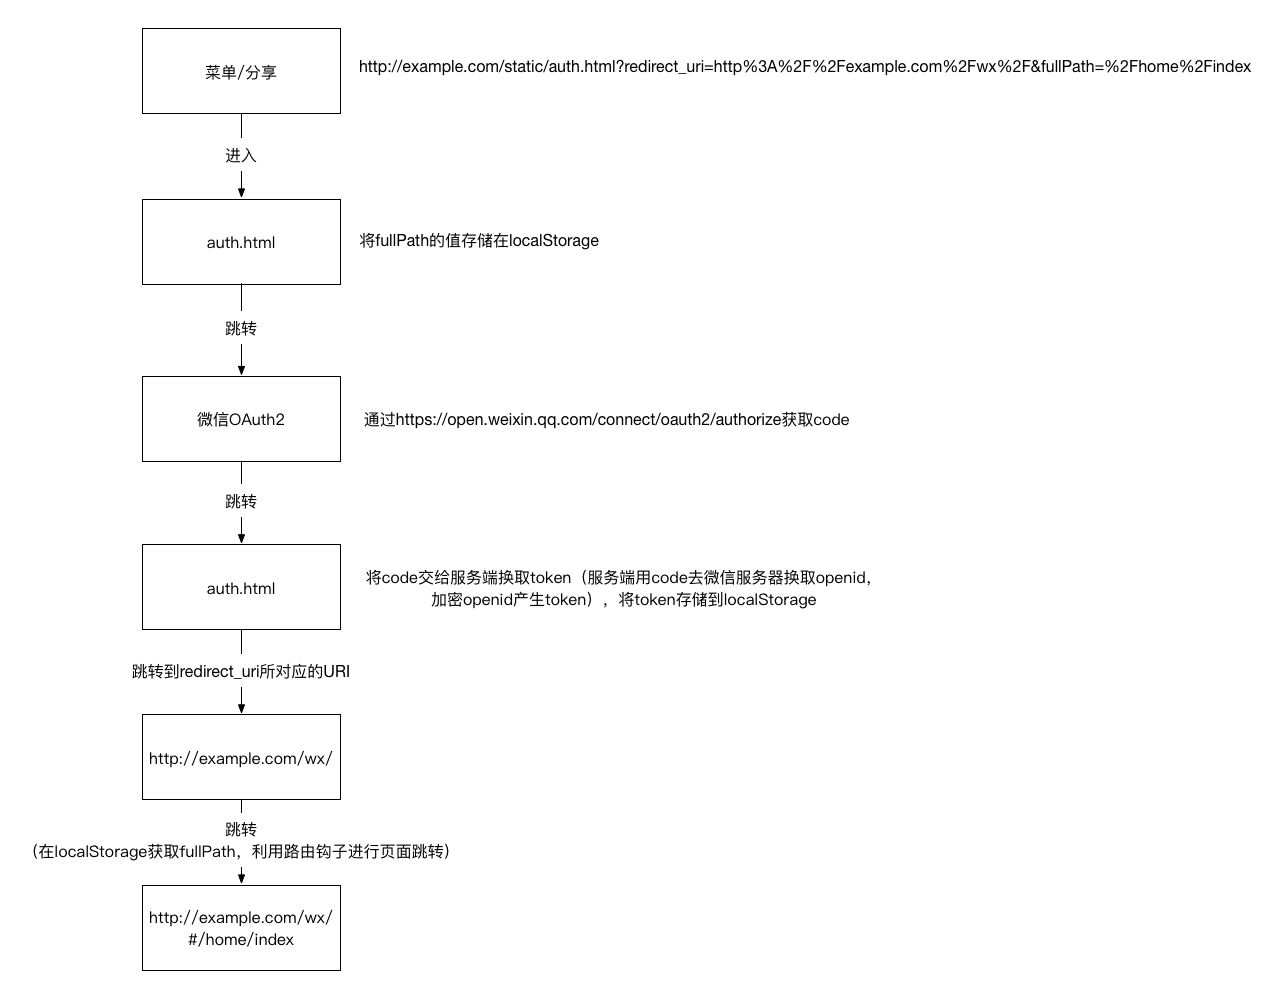
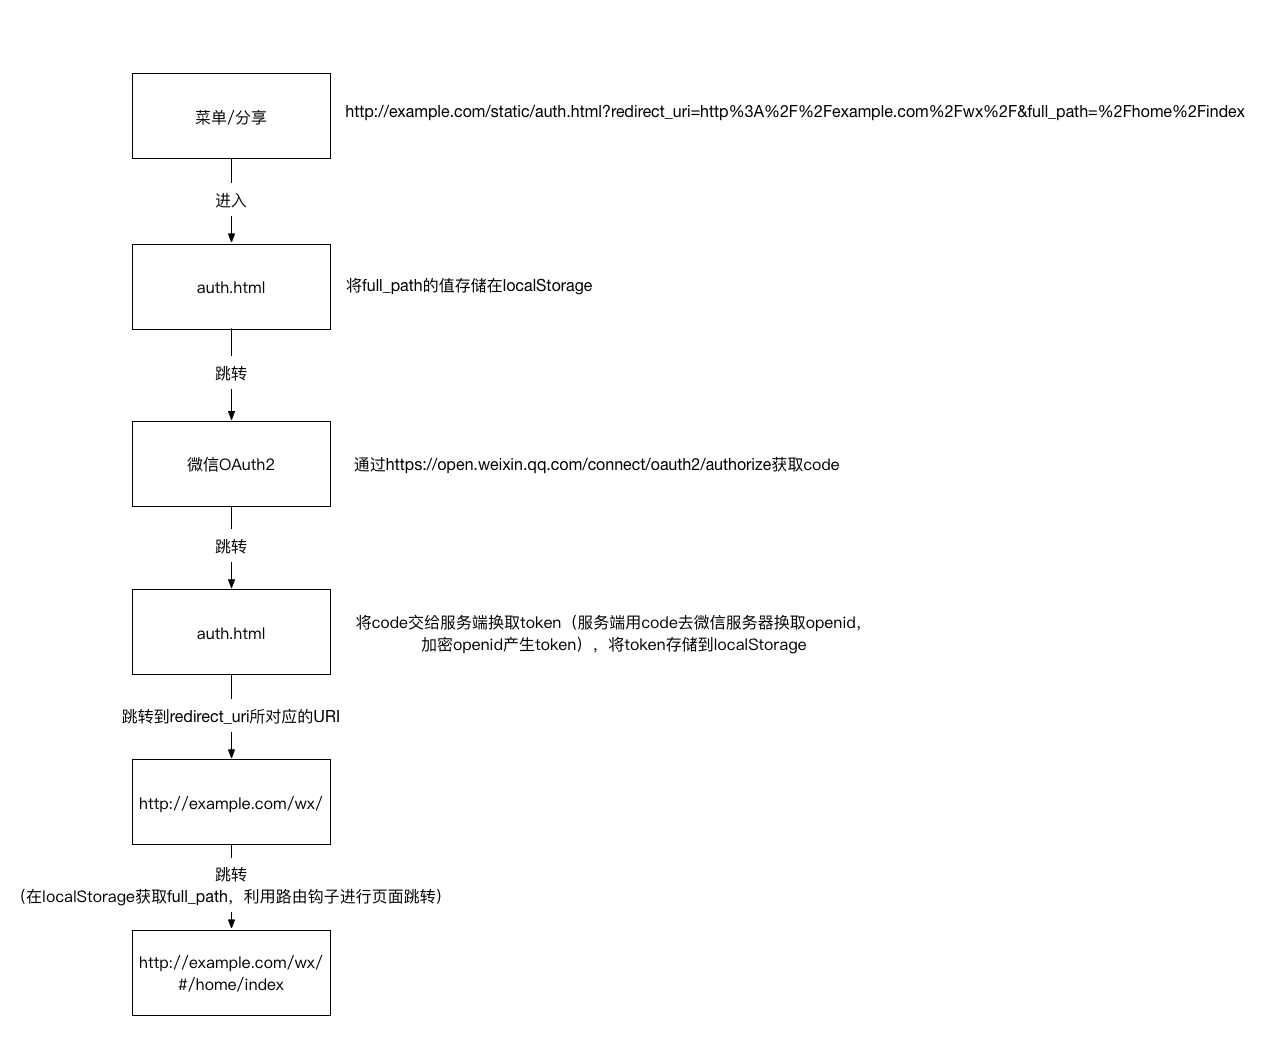
修正代码大小写错误，添加禁忌，用location.replace代替location.href

diff --git a/examples/auth/auth.html b/examples/auth/auth.html
@@ -3,8 +3,8 @@
 <head>
   <title>微信授权登录</title>
   <meta charset="utf-8">
-  <meta http-equiv="expires" content="-1">
   <meta http-equiv="cache-control" content="no-cache">
+  <meta http-equiv="expires" content="0">
   <meta http-equiv="pragma" content="no-cache">
   <script src="//cdn.bootcss.com/axios/0.16.1/axios.min.js"></script>
   <script>
@@ -17,7 +17,7 @@
     storageName: {
       token: 'token', // 需要设置的token名称
       tokenCreateAt: '__WX_auth_token_create_at', // token的创建时间
-      fullPath: 'fullPath' //hash后面的部分，如：/home/index
+      fullPath: 'full_path' //hash后面的部分，如：/home/index
     },
     getParam: function (name, url) { // 获取url参数
       if (!url) url = window.location.href;
@@ -32,7 +32,7 @@
       var token = window.localStorage.getItem(WX.storageName.token);
       var tokenCreateAt = window.localStorage.getItem(WX.storageName.tokenCreateAt);
       if (token && Date.parse(new Date()) - tokenCreateAt <= WX.config.expira) { // token存在也未过期，跳转到实际需要登录的页面
-        window.location.href = WX.getParam('redirect_uri') || '/';
+        window.location.replace(WX.getParam('redirect_uri') || '/');
       } else { // token不存在或过期，获取token
         var code = WX.getParam('code');
         if (code) { // code存在，去服务端交换token
@@ -43,13 +43,13 @@
           }).then(function (res) {
             window.localStorage.setItem(WX.storageName.token, res.data.token);
             window.localStorage.setItem(WX.storageName.tokenCreateAt, Date.parse(new Date()));
-            window.location.href = WX.getParam('redirect_uri') || '/';
+            window.location.replace(WX.getParam('redirect_uri') || '/');
           }, function (err) {
             // 调用接口失败可以调用微信的js-sdk的closeWindow方法关闭浏览器窗口
             window.alert('微信授权失败');
           });
         } else { // code不存在，跳转到获取code页面
-          var fullPath = WX.getParam('fullPath');
+          var fullPath = WX.getParam('full_path');
           if (fullPath) window.localStorage.setItem(WX.storageName.fullPath, fullPath);
           window.location.href = 'https://open.weixin.qq.com/connect/oauth2/authorize' +
                                  '?appid=' + WX.config.appid +

diff --git a/README.md b/README.md
@@ -2,10 +2,10 @@
 
 #### 这事非常重要：
 
-1. 路由的hash务必是“#”，如：http://example.com/wx/#/home/index 
-2. 涉及**微信支付**的应用部署目录务必是二级或三级，建议通过修改Nginx、Apache配置重写url实现，或者修改Webpack的配置实现。
-3. 新建一个页面用于微信授权登录，如：在根目录static文件夹下新建[auth.html](https://github.com/Chooin/wechat-spa/blob/master/examples/auth) （所有需要进入SPA应用的url地址都要通过该页面进行跳转，如：微信分享，菜单）
-4. 涉及调用jsapi的页面都得重新配置wx.config
+1. 路由的hash务必是“#”，如：http://example.com/wx/#/home/index
+2. 涉及**微信支付**的应用部署目录务必是二级或三级，建议通过修改Nginx、Apache配置重写url实现，或者修改Webpack的配置实现
+3. 新建一个页面用于微信授权登录，如：在根目录 static 文件夹下新建[auth.html](https://github.com/Chooin/wechat-spa/blob/master/examples/auth) （所有需要进入 SPA 应用的url地址都要通过该页面进行跳转，如：微信分享，菜单）
+4. 涉及调用 jsapi 的页面都得重新配置 wx.config
 5. 从分享链接或微信公众号菜单进入 http://example.com/wx/#/home/index 页面，流程图如下：
 <img src="https://github.com/Chooin/wechat-spa/blob/master/pictures/flow.png" width="780" height="auto" />
 
@@ -17,6 +17,7 @@
 - [微信授权登录](#微信授权登录)
 - [微信分享](#微信分享)
 - [微信支付](#微信支付)
+- [禁忌](#禁忌)
 
 ## 安装和使用微信js-sdk
 
@@ -67,9 +68,9 @@ if (/ip(hone|od|ad)/i.test(window.navigator.userAgent)) {
 
 ## 微信分享
 
-分享的url务必是 http://example.com/static/auth.html?redirect_uri={SPA应用部署的地址}&fullPath={访问的路由} ，
+分享的url务必是 http://example.com/static/auth.html?redirect_uri={SPA应用部署的地址}&full_path={访问的路由} ，
 
-SPA应用部署的地址，如：http://example.com/wx/ ；访问的路由，如：/product 或 /product?page=1。两个值都需要通过encodeURIComponent转成url编码
+SPA应用部署的地址，如：http://example.com/wx/ ；访问的路由，如：/product 或 /product?page=1。两个值都需要通过encodeURIComponent转码
 
 参考代码如下：
 
@@ -109,8 +110,8 @@ cosnt _wechat = () => {
   const share = ({ title, desc, fullPath, imgUrl }) => {
     let url = window.location.href
     let redirect_uri = encodeURIComponent(url.split('#')[0])
-    let fullpath = encodeURIComponent(fullPath)
-    let link = `http://example.com/static/auth.html?redirect_uri=${redirect_uri}&fullPath=${fullPath}`
+    let fullPath = encodeURIComponent(fullPath)
+    let link = `http://example.com/static/auth.html?redirect_uri=${redirect_uri}&full_path=${fullPath}`
     wx.onMenuShareTimeline({
       title,
       link,
@@ -155,6 +156,16 @@ _wechat().config().then(res => {
 **如：** 我们进入SPA应用的第一个页面是 http://example.com/wx/#/home/index 或是 http://example.com/wx/#/me/index ，则iOS获取到的安全目录路径分别是 http://example.com/wx/#/home/index 、 http://example.com/wx/#/me/index 。这样我们要配置很多的安全目录路径，但微信平台仅允许设置3个安全目录路径，直接进入SPA应用的页面是行不通的。
 
 **解决思路：** 我们进入SPA应用的第一个页面都是 http://example.com/wx/ 然后通过SPA路由的钩子重定向到自己想要访问的页面。
+
+## 禁忌
+1. 不要使用类似以下格式的url
+``` bash
+# 点击返回到上个页面，页面无法渲染
+http://example.com/?time=1494315429992#/home/index
+
+```
+
+2. 路由不要使用history模式
 
 ## 问题反馈
 
